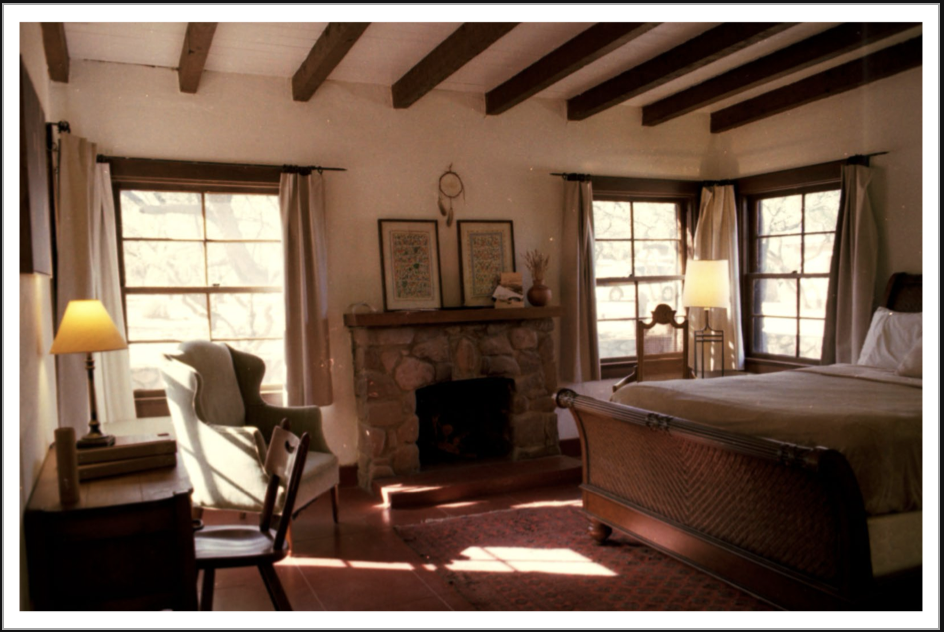
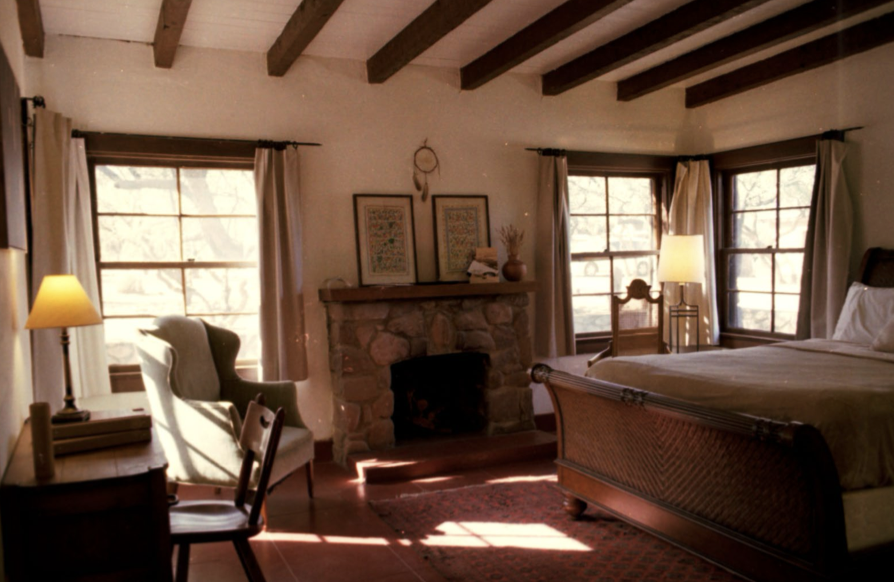
Remove bottom footer, TCR-italicize book buttons, crop room photo borders
- Footer: removed the light <footer> and its CSS (including print rule). Dark CTA section is now the last thing visible.
- Book buttons: .cta-button and .hero-utility-book switched to TCR italic lowercase to match the new header typography.
- Room photos: cropped 25px off each side to remove the black frame + white mat from the PDF screenshots. Flex aspect-ratio weights updated to match new dimensions.

diff --git a/brochure-v20.html b/brochure-v20.html
@@ -830,9 +830,9 @@
       display: block;
       border-radius: 2px;
     }
-    .info-rooms img:nth-child(1) { flex: 1.494 1 0; }
-    .info-rooms img:nth-child(2) { flex: 0.668 1 0; }
-    .info-rooms img:nth-child(3) { flex: 1.484 1 0; }
+    .info-rooms img:nth-child(1) { flex: 1.536 1 0; }
+    .info-rooms img:nth-child(2) { flex: 0.650 1 0; }
+    .info-rooms img:nth-child(3) { flex: 1.526 1 0; }
     @media (max-width: 540px) {
       .info-rooms { flex-direction: column; align-items: center; }
       .info-rooms img { flex: 0 1 auto; width: auto; max-width: 100%; max-height: 240px; }
@@ -870,15 +870,16 @@
 
     .cta-button {
       display: inline-block;
-      font-family: Arial, 'Helvetica Neue', Helvetica, sans-serif;
-      font-size: 12px;
-      letter-spacing: 0.25em;
-      text-transform: uppercase;
+      font-family: 'The Care Ranch', Georgia, serif;
+      font-style: italic;
+      font-size: 1.4rem;
+      letter-spacing: 0.01em;
+      text-transform: lowercase;
       color: var(--cream);
       text-decoration: none;
       background: transparent;
       border: 1px solid rgba(242, 237, 228, 0.35);
-      padding: 18px 44px;
+      padding: 14px 44px;
       margin-top: 2rem;
       cursor: pointer;
       transition: all 0.3s ease;
@@ -961,11 +962,13 @@
     .hero-utility-insta { opacity: 0.85; }
     .hero-utility-insta:hover { opacity: 1; }
     .hero-utility-book {
-      font-size: 11px;
-      letter-spacing: 0.22em;
-      text-transform: uppercase;
+      font-family: 'The Care Ranch', Georgia, serif;
+      font-style: italic;
+      font-size: 1.15rem;
+      letter-spacing: 0.01em;
+      text-transform: lowercase;
       border: 1px solid rgba(0, 0, 0, 0.5);
-      padding: 10px 22px;
+      padding: 7px 22px;
     }
     .hero-utility-book:hover {
       background: #000;
@@ -1137,47 +1140,6 @@
       color: var(--charcoal);
       line-height: 1.65;
       margin-bottom: 1.5rem;
-    }
-
-    /* ═══════════════ Footer ═══════════════ */
-    footer {
-      text-align: center;
-      padding: clamp(3rem, 6vw, 4.5rem) clamp(1.5rem, 4vw, 3rem);
-      background: var(--sand);
-    }
-
-    .footer-gradient {
-      height: 1px;
-      background: linear-gradient(to right, transparent, rgba(196, 125, 92, 0.25), transparent);
-      max-width: 420px;
-      margin: 0 auto clamp(1.75rem, 4vw, 2.5rem);
-    }
-
-    .footer-meta {
-      font-size: 11px;
-      letter-spacing: 0.22em;
-      text-transform: uppercase;
-      color: rgba(61, 54, 50, 0.32);
-    }
-
-    .footer-contact {
-      text-align: center;
-      font-family: Arial, 'Helvetica Neue', Helvetica, sans-serif;
-      font-size: 13px;
-      letter-spacing: 0.02em;
-      color: rgba(61, 54, 50, 0.65);
-      margin: 0;
-    }
-    .footer-contact a {
-      color: var(--charcoal);
-      text-decoration: none;
-      border-bottom: 1px solid rgba(196, 125, 92, 0.45);
-      padding-bottom: 1px;
-      transition: color 0.2s ease, border-color 0.2s ease;
-    }
-    .footer-contact a:hover {
-      color: var(--terracotta);
-      border-bottom-color: var(--terracotta);
     }
 
     /* ═══════════════ Responsive ═══════════════ */
@@ -1486,14 +1448,6 @@
         color: #3D3632 !important;
         padding: 10px 28px;
       }
-
-      /* Footer */
-      footer {
-        background: #ffffff !important;
-        page-break-before: avoid;
-        padding: 0.5cm 0;
-      }
-      .footer-meta { color: rgba(0, 0, 0, 0.5) !important; }
 
       /* Force opacity on any GSAP-hidden elements */
       .section-header,
@@ -2317,14 +2271,6 @@
       </a>
     </div>
   </section>
-
-  <!-- ═══════════════ Footer ═══════════════ -->
-  <footer>
-    <div class="footer-gradient"></div>
-    <p class="footer-contact">
-      <a href="mailto:contact@thecareranch.com">contact@thecareranch.com</a>
-    </p>
-  </footer>
 
   <!-- ═══════════════ Booking modal ═══════════════ -->
   <div class="booking-modal" id="bookingModal" aria-hidden="true" hidden>
